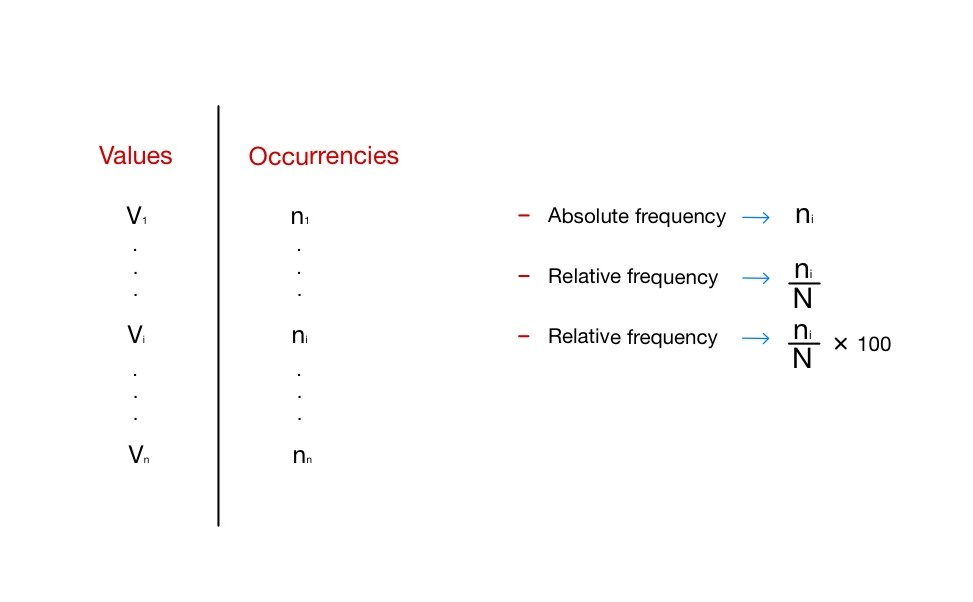
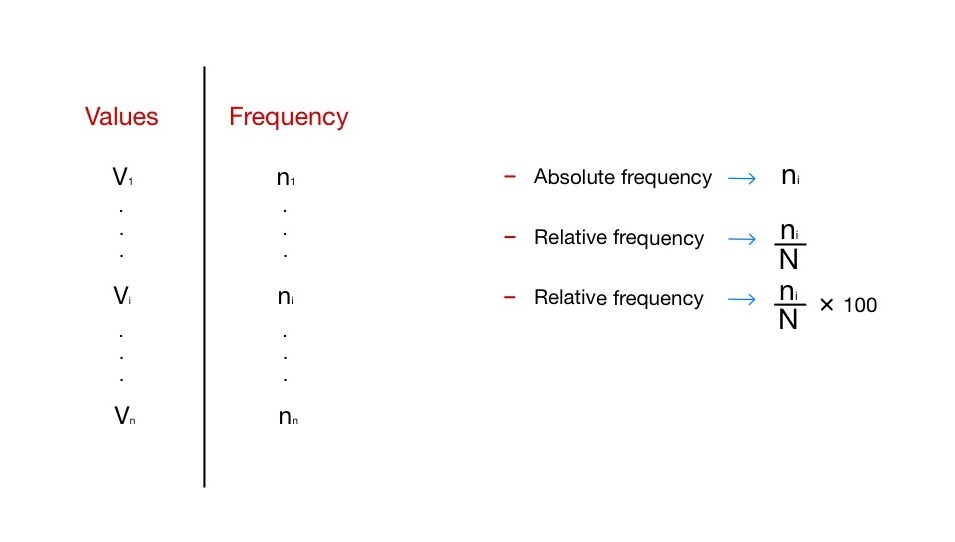
some corrections

diff --git a/homework2/researches2.md b/homework2/researches2.md
@@ -12,14 +12,14 @@
  
  A Frequency Distribution is related to one or more of those attributes, and shows the number of the occurrences of all the possible values (or combination of values) assumed by them. Notice that we need to introduce a distinction between the attributes that are analyzed:
 
- - For **categorical attributes** (True/False, Yes/No), we often see the occurrences of any possible outcome.
+ - For **categorical attributes** (True/False, Yes/No), we often see the number of the occurrences of any possible outcome.
 
- - For **numerical attributes** (e.g. height, salary, ecc), it would be to difficult (if not impossible, in case of a continuous variable) to represent each possible value. Therefore, all the possible outcomes are grouped and the occurrence reported for a group sums all the occurrences of all the values in the group.
+ - For **numerical attributes** (e.g. height, salary, ecc), it would be to difficult (if not impossible, in case of a continuous variable) to represent each possible value. Therefore, all the possible outcomes are grouped and the frequency reported for a group sums all the frequencies of all the values in the group.
 
 We told that a distribution can refer to a single attribute or to more than one attribute. We have then to distinguish between **univariate distributions** and **multivariate distributions**.
 
-A **univariate distribution** refers just to one attribute, and can be represented with a table with two columns: on the left, we have all the possible values assumed by the attribute under analysis (or all the groups i decided to create in case of numerical attributes) while on the right i have, for each value (or group), the number of times that value appears in the dataset for that attribute. This can be seen in the image below:
+A **univariate distribution** refers just to one attribute, and can be represented with a table with two columns: on the left, we have all the possible values assumed by the attribute under analysis (or all the groups we decided to create in case of numerical attributes) while on the right we have, for each value (or group), the number of times that value appears in the dataset for that attribute. This can be seen in the image below:
 
 ![Univariate distribution](/StatisticsHomework/docs/assets/images/univariate.jpg)
 
-Notice how the occurrences of each value can be represented in 3 ways: we can report the **absolute frequency**, that is exactly the number of times that value appears, we can report the **relative frequency**, obtained dividing the absolute frequency for the cardinality of the statistical population we consider, or we can report the **percentage**, obtained multiplying the relative frequency by 100.
+Notice how the frequency of each value can be represented in 3 ways: we can report the **absolute frequency**, that is exactly the number of times that value appears, we can report the **relative frequency**, obtained dividing the absolute frequency for the cardinality of the statistical population we consider, or we can report the **percentage**, obtained multiplying the relative frequency by 100.
